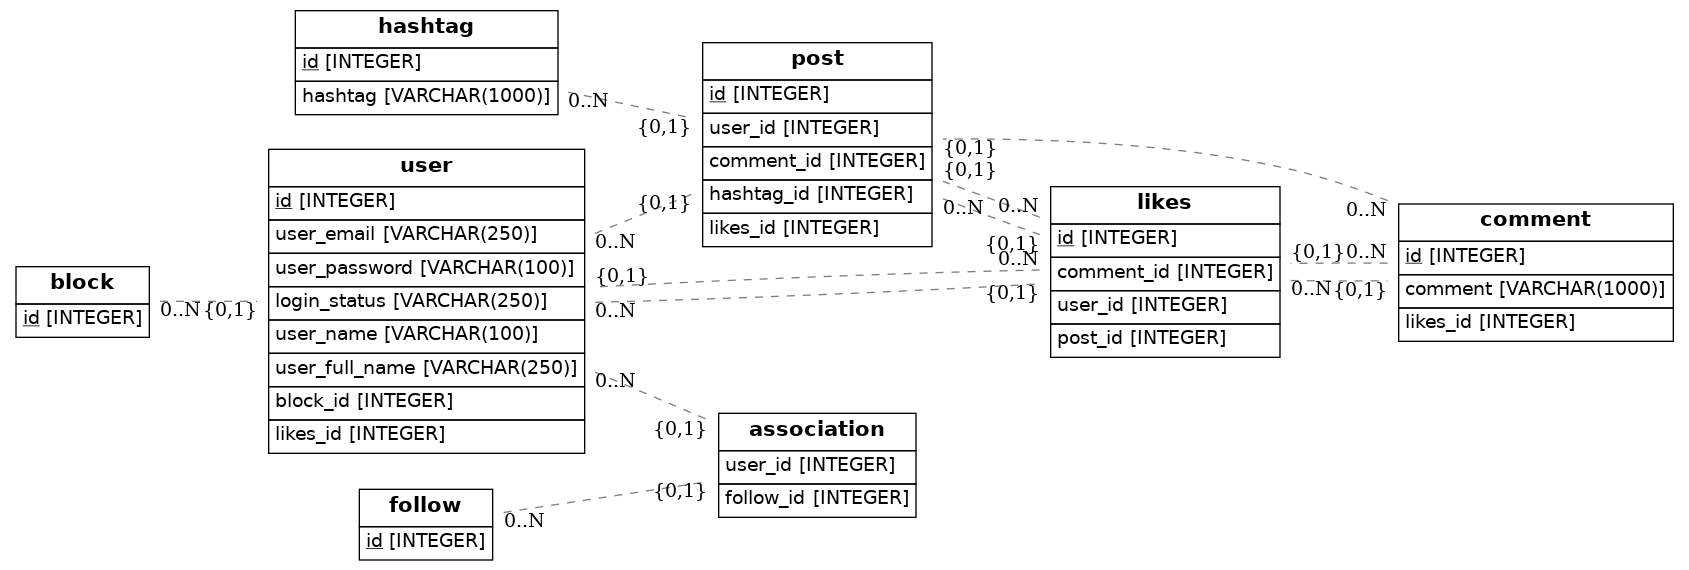
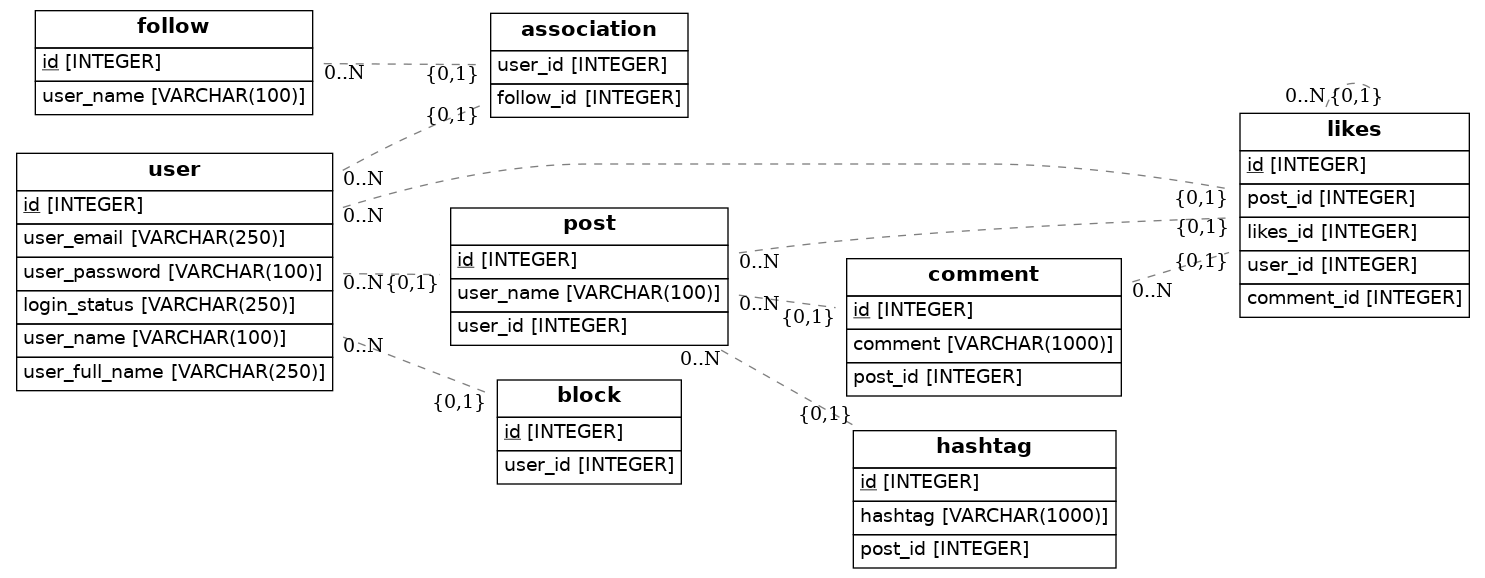
Arreglos

diff --git a/src/models.py b/src/models.py
@@ -1,6 +1,6 @@
 import os
 import sys
-from sqlalchemy import Column, ForeignKey, Integer, String, Table
+from sqlalchemy import Column, ForeignKey, Integer, String, Table, Boolean
 from sqlalchemy.ext.declarative import declarative_base
 from sqlalchemy.orm import relationship
 from sqlalchemy import create_engine
@@ -24,49 +24,68 @@ class User(Base):
     login_status = Column(String(250), nullable=False)
     user_name = Column(String(100), nullable=False)
     user_full_name = Column(String(250), nullable=False)
-    block_id = Column(Integer, ForeignKey('block.id'))
-    likes_id = Column(Integer, ForeignKey('likes.id'))
+    post = relationship("Post", back_populates="user")
+    block = relationship("Block", back_populates="user")
+    likes = relationship("Likes", back_populates="user")
     follow = relationship("Follow", secondary=association_table)
 
 
 class Follow(Base):
     __tablename__ = "follow"
     id = Column(Integer, primary_key=True)
+    user_name = Column(String(100), nullable=False)
 
 
 class Post(Base):
     __tablename__ = 'post'
     id = Column(Integer, primary_key=True)
-    user_id = Column(Integer, ForeignKey('user.id'))
-    comment_id = Column(Integer, ForeignKey('comment.id'))
-    hashtag_id = Column(Integer, ForeignKey('hashtag.id'))
-    likes_id = Column(Integer, ForeignKey('likes.id'))
+    user_name = Column(String(100), nullable=False)
+    user_id = Column(Integer, ForeignKey("user.id"))
+    user = relationship("User", back_populates="post")
+    likes = relationship("Likes", back_populates="post")
+    comment = relationship("Comment", back_populates="post")
+    hashtag = relationship("Hashtag", back_populates="post")
+    
     
     
 class Block(Base):
     __tablename__ = 'block'
     id = Column(Integer, primary_key=True)
+    user_id = Column(Boolean(), nullable=False)
+    user_id = Column(Integer, ForeignKey("user.id"))
+    user = relationship("User", back_populates="block")
+    
    
 
 class Comment(Base):
     __tablename__ = 'comment'
     id = Column(Integer, primary_key=True)
     comment = Column(String(1000), nullable=False)
-    likes_id = Column(Integer, ForeignKey('likes.id'))
+    post_id = Column(Integer, ForeignKey("post.id"))
+    post = relationship("Post", back_populates="comment")
+    likes = relationship("Likes", back_populates="comment")
+    
 
 
 class Likes(Base):
     __tablename__ = 'likes'
     id = Column(Integer, primary_key=True)
-    comment_id = Column(Integer, ForeignKey('comment.id'))
-    user_id = Column(Integer, ForeignKey('user.id'))
-    post_id = Column(Integer, ForeignKey('post.id'))
-
+    post_id = Column(Integer, ForeignKey("post.id"))
+    post = relationship("Post", back_populates="likes")
+    likes_id = Column(Integer, ForeignKey("likes.id"))
+    user_id = Column(Integer, ForeignKey("user.id"))
+    user = relationship("User", back_populates="likes")
+    comment_id = Column(Integer, ForeignKey("comment.id"))
+    comment = relationship("Comment", back_populates="likes")
+    
+    
     
 class Hashtag(Base):
     __tablename__ = 'hashtag'
     id = Column(Integer, primary_key=True)
     hashtag = Column(String(1000), nullable=False)
+    post_id = Column(Integer, ForeignKey("post.id"))
+    post = relationship("Post", back_populates="hashtag")
 
    
     def to_dict(self):
